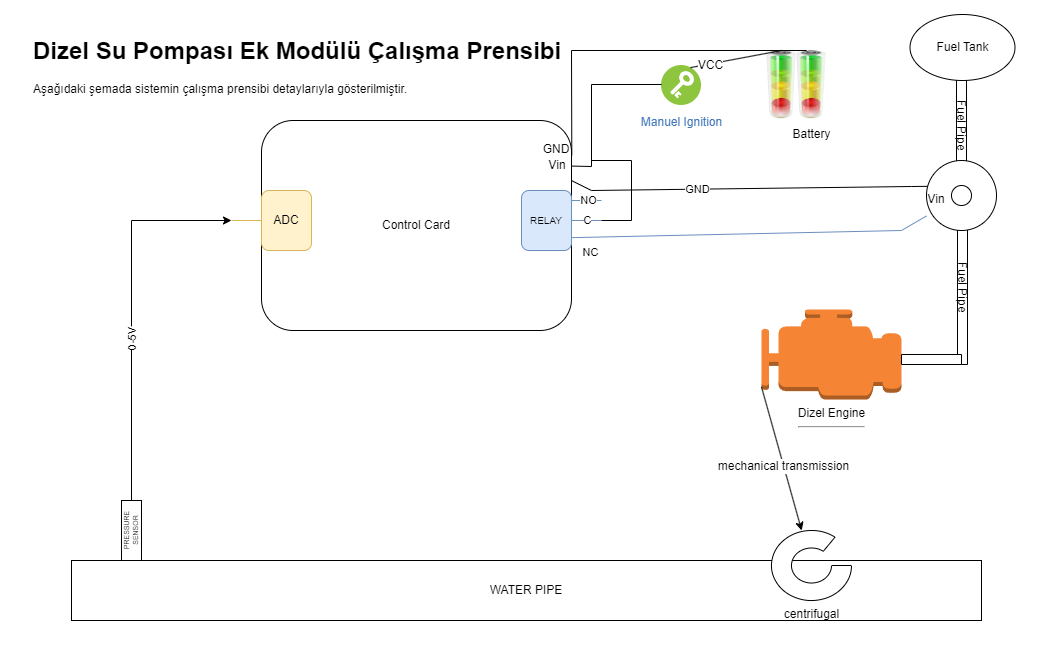
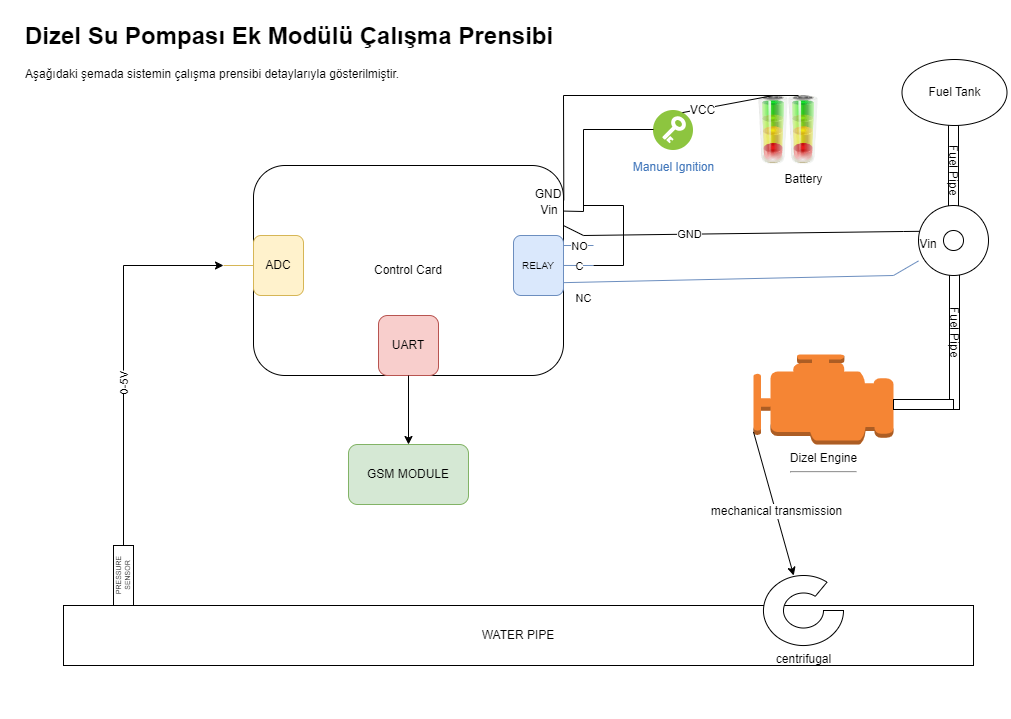
Diyagramlar ve dökümanlar düzenlendi.

diff --git a/documents/analog.md b/documents/analog.md
@@ -1,0 +1,53 @@
+# ADC Nedir?
+
+ADC'ler analog olan sinyali dijitale dönüştüren araçlardır. Gelen sinyalin voltaj değerine göre dijital bir çıktı verir. ADC'lerin hemen hemen hepsi 0-5v aralığında çalışır. Bundan dolayı analog sensörler genelde 0 - 5v aralığındadır. MCU gelen veriyi dijital olarak okuyabildiği için herhangi bir sensörden veri okurken ADC kullanılarak analog olan veri dijitale çevirilerek MCU'ya aktarılır. Basit bir deyişle MCU'nun anlayacağı dilde aktarılır.
+
+# ADC Türleri
+
+- **Çift Eğimli** - Ucuz ve çok yavaş
+- **Flaş** - Çok hızlı ama bit çözünürlüğü düşük
+- **Boru hattı** - Çok hızlı ama bit çözünürlüğü düşük
+- **SAR** - Hızı ve çözünürlüğü iyi (Çok tercih edilen)
+- **Delta Sigma** - Hızı ve çözünürlüğü iyi
+
+# Bit Çözünürlüğü
+
+Yüksek bit çözünürlüğünde adım aralıkları daha kısadır. Yani daha hassas ölçümler yapılabilir. Bit çözünürlüğü düştükçe adımların aralığı artacağından gelen verinin hassasiyeti azalır.
+
+# 4-20 mA Protokolü
+
+4-20 mA bir dijital iletişim protokolüdür. Adından da anlaşıldığı gibi 4 ile 20 mA arasında akım değerleriyle haberleşme sağlar. Toplam 16 mA'lık bir aralığı bulunur. 0-5v, 0-10v gibi diğer analog ölçüm çeşitlerine göre avantajları ve dezavantajları vardır. 4 mA en alt seviyeyi, 20 mA ise en üst seviyeyi temsil eder. Sensörden gelen veri tipine bağlı olarak uygun aralıklama yapılır.
+
+4-20 mA akım kaynaklı bir haberleşme çeşidi olduğu için güç kaynağından kesintisiz ve sabit akım alması gereklidir. Bu sağlandığında taktirde veri bozulmadan ve gürültü olmadan uzun mesafelerde yol kat edebilir. Voltaj kaynaklı haberleşmelerde mesafe uzadıkça gürültü artacaktır ve verinin doğruluğu kaybolacaktır.
+
+4-20 mA'da 4 mA altına inme veya 20 mA üstüne çıkma durumu olursa sistemde bir hata olduğuna işaret eder. Gelen veri doğru kabul edilmez.
+
+# 4-20 mA ADC İle Okuma
+
+ADC'lerin büyük bölümü voltaj ile okuma yaparlar. 4-20 mA ise akım ile veri aktarımı sağlar. Bundan dolayı ADC ile bu verinin okunabilmesi için voltaj aralıklarına dönüştürülmesi gereklidir. Veri iletim hattı 4-20 mA protokolü ile ADC'ye kadar gelir. ADC'ye aktarılmadan önce bir direnç devresi kurularak akıma bağlı voltaj değişikliği sağlanır. Bu aşamada genellikle 250 ohm direnç kullanılmaktadır. Bu voltajı ADC okur ve dijitale çevirerek MCU'ya iletir.
+
+# ADC Bit Çözünürlüğü Önemi
+
+ADC'ler 8 bit, 10 bit, 16 bit gibi birçok farklı bit çözünürlüğüne sahiptir. Bit çözünürlüğü kullanım alanına göre oldukça önemlidir. Bit çözünürlüğü ADC'nin dijital adım sayısının belirtir. 2 üzeri bit sayısı şeklinde adım sayısı bulunur. Örneğin 8 bitlik bir ADC 256 adım aralığına sahiptir. 16 bitlik bir ADC 65536 adım sayısına sahiptir. Adım sayısı sensörlerden okunan verinin hassasiyetini belirler. Örneğin 0-256 PSI aralığında basınç ölçen bir sensördeki veri 8 bitlik bir ADC ile okunursa basınç değişimleri 1 PSI olarak değişir, ara değerler ölçülemez. Bu sensördeki veri 16 bitlik bir ADC ile okunursa 0,01 PSI gibi küçük değerlerin değişimi bile dijital olarak okunabilir.
+
+Bir sensörden veri okunduğunda ADC bunu dijital bir sayısal değere çevirerek MCU'ya aktarır. Bu sayede MCU tarafından sensörden gelen veri doğru bir şekilde yorumlanabilir.
+
+# STM32 İle ADC Kullanımı
+
+ADC, STM32 ile denetleyicilerin üzerinde dahili olarak bulunmaktadır. Seçilen MCU modeline göre ADC'nin kaç bit çözünürlüğe sahip olduğu öğrenilmelidir.
+
+Kullanılan MCU'nun datasheet'inde hangi pinlerin ADC olarak kullanılabileceği belirtilmiştir. Öncelikle buradan pin seçimi yapılmalıdır. Ardından bu pin STM32Cube ile ADC olarak yapılandırılmalıdır. Sonrasında ADC'nin çözünürlüğü (bit) yapılandırılmalıdır. Daha sonra Hz cinsinden örnekleme hızı yapılandırılmalıdır. Bu örnekleme hızı ADC'nin saniyede kaç kere analog veriyi dijitale çevireceğini belirler. Projenin ihtiyacına göre burada frekans ayarlaması yapılır.
+
+İlgili sensörün standart VCC GND bağlantıları yapıldıktan sonra analog çıkışı STM32'nin ADC olarak belirlenen pinine bağlanır. Gerekli diğer ayarlar da yapıldığı için bu aşamadan sonra ADC belirtilen sürelerde sensörden gelen analog veriyi dijitale yani sayısal bir biçime çevirerek MCU'ya aktarır. Sensörün ölçüm aralığına göre dijital aralıkların karşılığı hesaplanır ve istediğimiz birimde ölçüm sonucunu alabiliriz. Bu aşamadan sonra MCU'nun sensörden gelen veriye göre ne yapacağı projeye göre belirlenebilir.
+
+Eğer projede birden fazla analog veri toplanacaksa MCU'nun diğer GPIO pinleri de ADC olarak tanımlanıp her birinden farklı kanallar üzerinde veri toplanabilir. Bu sayede tek bir MCU ile birden fazla sensörden veri alınarak yorumlanabilir.
+
+> Not: STM işlemciler genellikle SAR tipi ADC kullanmaktadır.
+
+# ADC'yi Verimli Kullanmak İçin Yapılabilecekler
+
+- ADC pinlerinin girişinde çok küçük (0,1 uF) kapasitörler koyularak gürültü azaltılır.
+- Analog veri hattı mümkün olduğunca kısa tutularak gürültü azaltılır.
+- Analog veri hattı manyetik alan üreten bileşenlerden uzak tutularak manyetik gürültüden korunur.
+- Analog sinyal yolları dijital sinyal yollarıyla çok yakın olmamalıdır.
+

diff --git a/documents/serial.md b/documents/serial.md
@@ -1,0 +1,43 @@
+# Seri Haberleşme Protokolleri
+
+Seri haberleşme, verilerin bir cihazdan diğerine belirli bir sırayla gönderildiği bir iletişim yöntemidir. Bu yöntem, özellikle mikrodenetleyiciler, sensörler ve diğer elektronik bileşenler arasında veri aktarımı için yaygın olarak kullanılır. En sık kullanılan seri haberleşme protokolleri arasında UART, SPI ve I2C bulunur.
+
+## UART (Universal Asynchronous Receiver/Transmitter)
+
+UART, iki cihaz arasında veri alışverişini sağlayan basit bir seri haberleşme protokolüdür. Bu protokol, veri iletimini senkronize etmek için saat sinyaline ihtiyaç duymaz. Veriler, belirli bir hızda (baud rate) gönderilir ve alıcı cihaz bu hıza göre verileri okur.
+
+- **Avantajları:**
+  - Basit ve yaygın bir haberleşme yöntemi.
+  - Saat sinyali gerektirmez.
+  - İki cihaz arasında doğrudan bağlantı sağlar.
+
+- **Dezavantajları:**
+  - Aynı anda sadece iki cihaz arasında iletişim kurulabilir.
+  - Senkronizasyon hatalarına duyarlıdır.
+
+## SPI (Serial Peripheral Interface)
+
+SPI, genellikle yüksek hızda veri iletimi gerektiren uygulamalarda kullanılan bir seri haberleşme protokolüdür. Bu protokol, bir ana cihaz (master) ve bir veya daha fazla bağlı cihaz (slave) arasında veri iletişimini sağlar. SPI, dört temel hat kullanır: saat (SCLK), ana cihaz veri çıkışı (MOSI), bağlı cihaz veri çıkışı (MISO) ve bağlı cihaz seçimi (SS).
+
+- **Avantajları:**
+  - Yüksek veri iletim hızı sağlar.
+  - Birden fazla bağlı cihazla iletişim kurulabilir.
+  - Senkron veri iletimi sayesinde güvenilir iletişim.
+
+- **Dezavantajları:**
+  - Daha fazla kablo gerektirir (4 hat).
+  - Bağlı cihaz sayısı sınırlıdır.
+
+## I2C (Inter-Integrated Circuit)
+
+I2C, düşük hızda veri iletimi gerektiren uygulamalar için tasarlanmış, iki hatlı bir seri haberleşme protokolüdür. I2C, bir ana cihaz (master) ve birçok bağlı cihaz (slave) arasında iletişim kurmayı mümkün kılar. Bu protokolde, veri iletimi ve saat sinyali için sadece iki hat kullanılır: veri hattı (SDA) ve saat hattı (SCL).
+
+- **Avantajları:**
+  - Az sayıda hat gerektirir (2 hat).
+  - Birden fazla cihazı aynı veri hattında yönetebilir.
+  - Basit bağlantı yapısı.
+
+- **Dezavantajları:**
+  - Veri iletim hızı SPI kadar yüksek değildir.
+  - İletişimde çakışma (collision) riski vardır.
+
